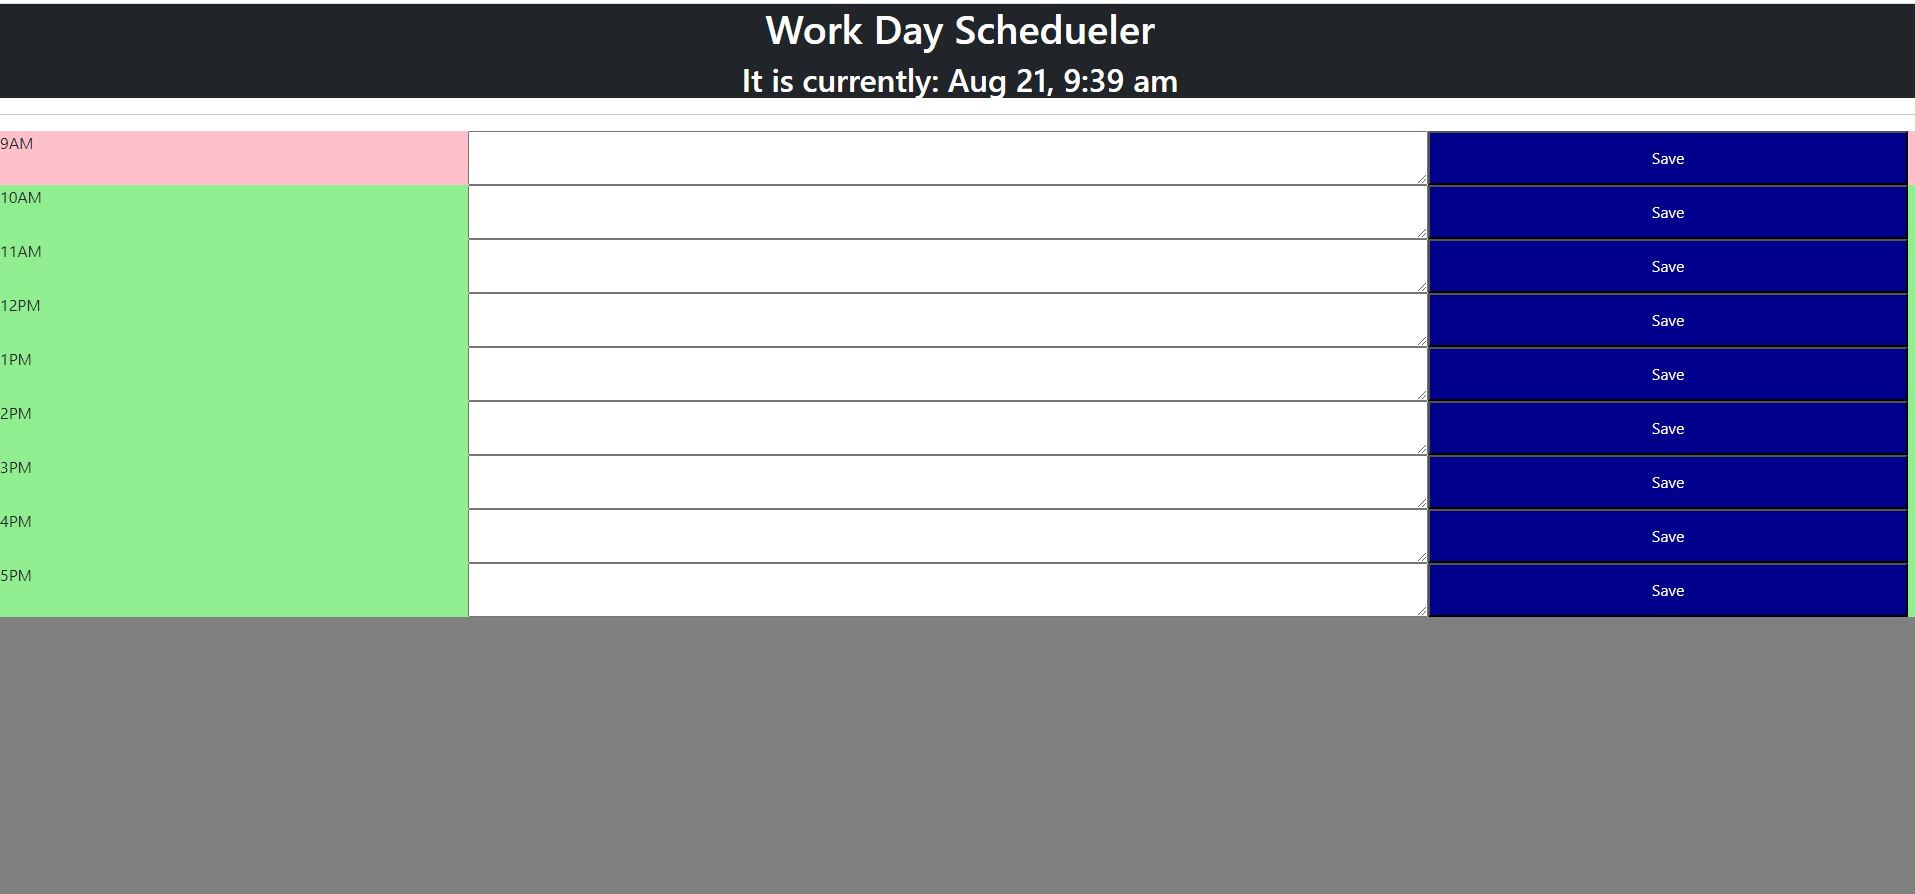
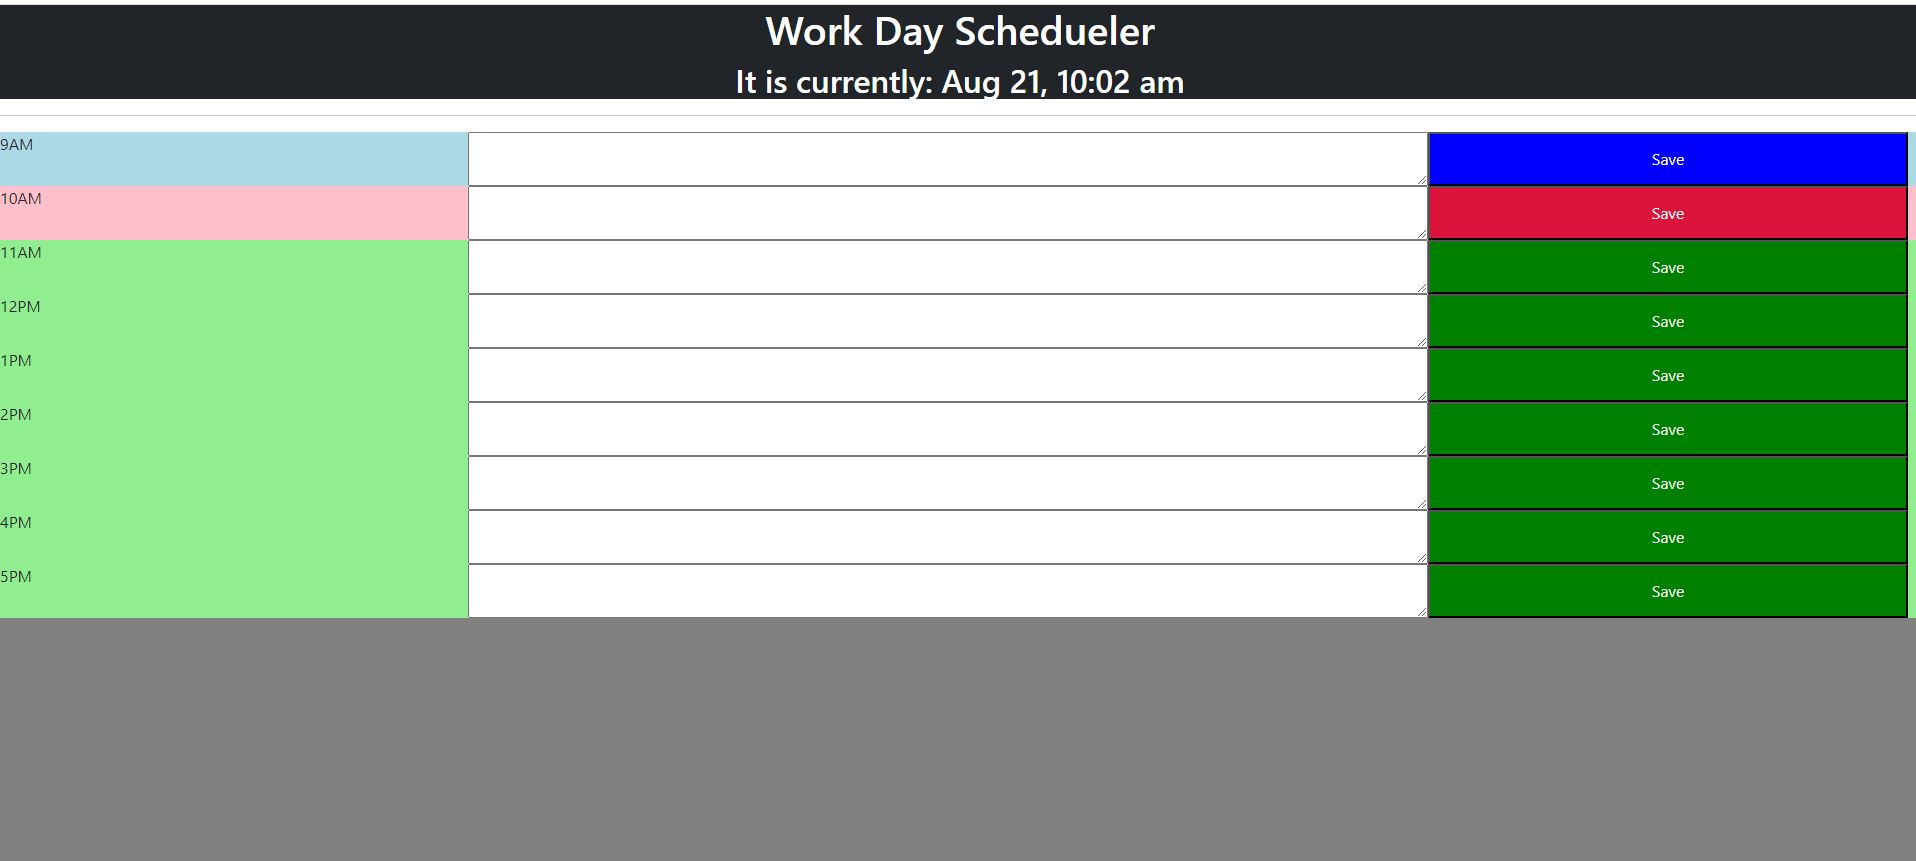
updated README

diff --git a/assets/css/style.css b/assets/css/style.css
@@ -6,13 +6,13 @@ header{
     text-align: center;
 }
 
-/* This is for changing the tile colors with time */
+/* This is for changing the tile and button colors with time */
 .past {
     background-color: lightblue;
 }
 
 .past-btn {
-    background-color: darkblue;
+    background-color: blue;
     color: white;
 }
 
@@ -21,7 +21,7 @@ header{
 }
 
 .present-btn {
-    background-color: red;
+    background-color: crimson;
     color: white;
 }
 
@@ -30,6 +30,6 @@ header{
 }
 
 .future-btn {
-    background-color: darkgreen;
+    background-color: green;
     color: white;
 }

diff --git a/README.md b/README.md
@@ -33,10 +33,3 @@ AUTHORS OR COPYRIGHT HOLDERS BE LIABLE FOR ANY CLAIM, DAMAGES OR OTHER
 LIABILITY, WHETHER IN AN ACTION OF CONTRACT, TORT OR OTHERWISE, ARISING FROM,
 OUT OF OR IN CONNECTION WITH THE SOFTWARE OR THE USE OR OTHER DEALINGS IN THE
 SOFTWARE.
-
-
-## TBD
-
-
-change the button colors with the bgnd
-move the localstorage into one file
